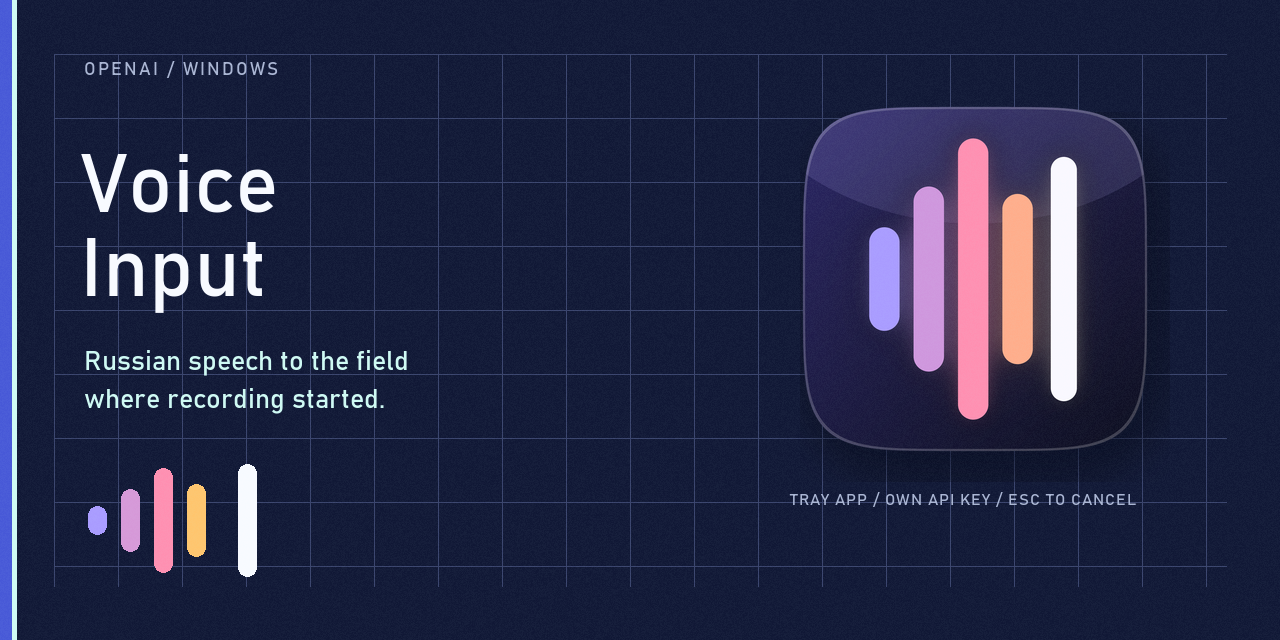
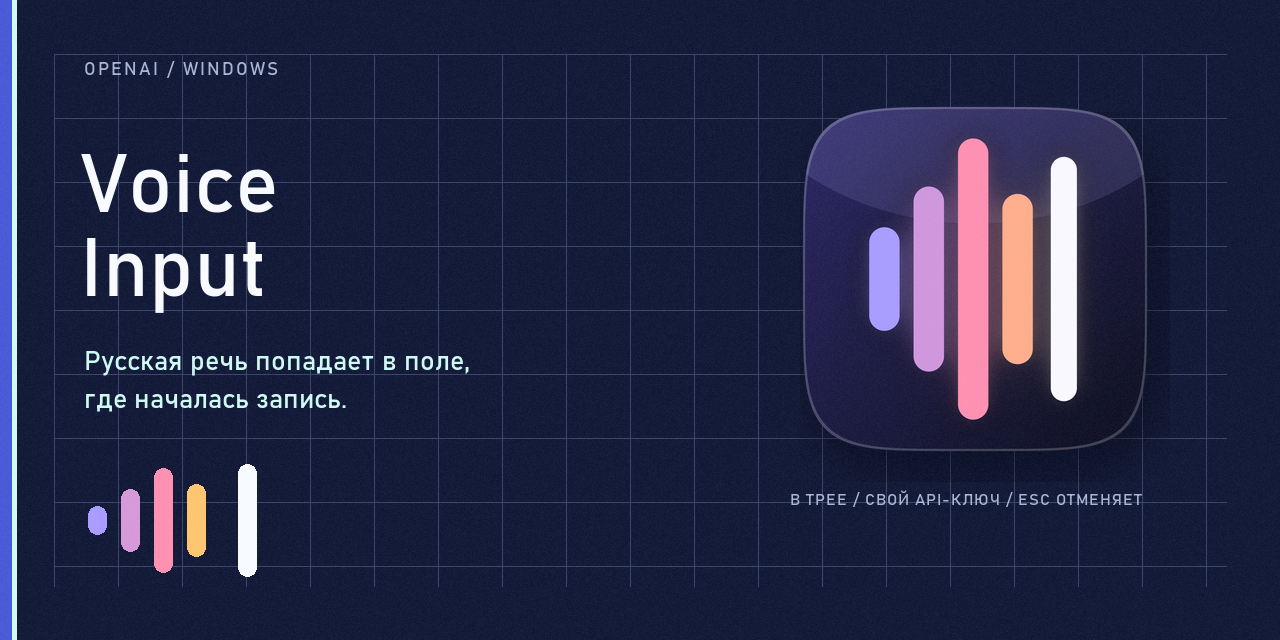
docs: add security policy, contributing guide and Russian README images
- SECURITY.md and CONTRIBUTING.md in Russian
- Russian issue form and contact links
- Dependabot for NuGet and GitHub Actions (monthly, grouped)
- banner, product and social images re-rendered with Russian captions
- README: icon doc link uses the Russian name

Changed region(s): [[0.0625, 0.5312, 0.375, 0.6562], [0.625, 0.75, 0.875, 0.8125]]

diff --git a/tools/render-github-assets.py b/tools/render-github-assets.py
@@ -78,7 +78,7 @@ WAVE_COLOURS = ["#A99BFF", "#D698D8", "#FF8FB1", "#FFC56D"]
 
 
 def waveform(draw: ImageDraw.ImageDraw, origin: tuple[int, int], heights: list[int], width: int = 18, gap: int = 15) -> None:
-    """The icon's waveform: a violet-to-amber sweep that resolves into a steady white cursor."""
+    """Волна со значка: от фиолетового к янтарному, в конце ровный белый курсор."""
     x0, cy = origin
     x = x0
     for index, h in enumerate(heights):
@@ -103,13 +103,13 @@ def render_banner() -> None:
     draw = ImageDraw.Draw(im)
     tracking(draw, (84, 42), "VOICE INPUT / WINDOWS", font(18), MUTED, 2)
     draw.text((80, 102), "Voice Input", font=font(68), fill=WHITE)
-    draw.text((84, 190), "DICTATION IN ANY TEXT FIELD.", font=font(24), fill=SIGNAL)
-    draw.text((84, 242), "Hold a hotkey, speak, and keep typing.", font=font(22), fill=MUTED)
+    draw.text((84, 190), "ДИКТОВКА В ЛЮБОЕ ТЕКСТОВОЕ ПОЛЕ.", font=font(24), fill=SIGNAL)
+    draw.text((84, 242), "Удерживайте горячую клавишу, говорите и продолжайте печатать.", font=font(22), fill=MUTED)
     waveform(draw, (90, 348), [30, 66, 108, 70])
     draw.line((1036, 62, 1036, 378), fill=GRID, width=1)
     icon_box = (1162, 70, 1432, 340)
     paste_icon(im, icon_box)
-    caption = "RECORD / TRANSCRIBE / INSERT"
+    caption = "ЗАПИСЬ / РАСПОЗНАВАНИЕ / ВСТАВКА"
     caption_face = font(15)
     caption_x = (icon_box[0] + icon_box[2] - tracking_width(draw, caption, caption_face, 2)) // 2
     tracking(draw, (caption_x, 374), caption, caption_face, MUTED, 2)
@@ -124,17 +124,17 @@ def render_social() -> None:
     tracking(draw, (84, 60), "OPENAI / WINDOWS", font(18), MUTED, 2)
     draw.text((80, 146), "Voice", font=font(82), fill=WHITE)
     draw.text((80, 230), "Input", font=font(82), fill=WHITE)
-    draw.text((84, 348), "Russian speech to the field", font=font(27), fill=SIGNAL)
-    draw.text((84, 386), "where recording started.", font=font(27), fill=SIGNAL)
+    draw.text((84, 348), "Русская речь попадает в поле,", font=font(27), fill=SIGNAL)
+    draw.text((84, 386), "где началась запись.", font=font(27), fill=SIGNAL)
     waveform(draw, (88, 520), [28, 62, 104, 72])
     paste_icon(im, (790, 94, 1160, 464))
-    tracking(draw, (790, 492), "TRAY APP / OWN API KEY / ESC TO CANCEL", font(16), MUTED, 1)
+    tracking(draw, (790, 492), "В ТРЕЕ / СВОЙ API-КЛЮЧ / ESC ОТМЕНЯЕТ", font(16), MUTED, 1)
     im = Image.alpha_composite(im, noise(size)).convert("RGB")
     im.save(OUT / "voice-input-social-preview.png", optimize=True, quality=94)
 
 
 def render_product_demo() -> None:
-    """The real 1.0 interface: overlay states on the left, the settings window on the right."""
+    """Настоящий интерфейс 1.0: слева состояния оверлея, справа окно настроек."""
     size = (1440, 800)
     im = Image.new("RGB", size, PAPER)
     draw = ImageDraw.Draw(im)
@@ -142,16 +142,16 @@ def render_product_demo() -> None:
     draw.rectangle((0, 0, size[0], 172), fill=INK)
     draw.rectangle((0, 0, 12, size[1]), fill=INDIGO)
     draw.rectangle((12, 0, 16, size[1]), fill=SIGNAL)
-    tracking(draw, (74, 38), "VOICE INPUT 1.0 / WINDOWS 10 AND 11", font(17), MUTED, 2)
-    draw.text((70, 76), "One quiet overlay. One small settings window.", font=font(46), fill=WHITE)
+    tracking(draw, (74, 38), "VOICE INPUT 1.0 / WINDOWS 10 И 11", font(17), MUTED, 2)
+    draw.text((70, 76), "Тихий оверлей и одно небольшое окно настроек.", font=font(46), fill=WHITE)
 
     product = OUT / "product"
     overlay_w, overlay_h = 400, 144
     cells = [
-        (70, 214, "01 / LISTENING", "listening.png"),
-        (500, 214, "02 / RECOGNISING", "processing.png"),
-        (70, 414, "03 / DONE", "success.png"),
-        (500, 414, "04 / PROBLEM, IN PLAIN WORDS", "error.png"),
+        (70, 214, "01 / СЛУШАЮ", "listening.png"),
+        (500, 214, "02 / РАСПОЗНАЮ", "processing.png"),
+        (70, 414, "03 / ГОТОВО", "success.png"),
+        (500, 414, "04 / ОШИБКА ПРОСТЫМИ СЛОВАМИ", "error.png"),
     ]
     for x, y, label, filename in cells:
         tracking(draw, (x, y), label, font(15), PAPER_MUTED, 2)
@@ -164,7 +164,7 @@ def render_product_demo() -> None:
     settings_h = round(settings.height * settings_w / settings.width)
     settings = settings.resize((settings_w, settings_h), Image.Resampling.LANCZOS)
     sx, sy = 1050, 214
-    tracking(draw, (sx, sy), "05 / SETTINGS", font(15), PAPER_MUTED, 2)
+    tracking(draw, (sx, sy), "05 / НАСТРОЙКИ", font(15), PAPER_MUTED, 2)
     shadow = Image.new("RGBA", size, (0, 0, 0, 0))
     ImageDraw.Draw(shadow).rounded_rectangle((sx - 8, sy + 34, sx + settings_w + 8, sy + 38 + settings_h), radius=18, fill=(18, 28, 63, 40))
     im = Image.alpha_composite(im.convert("RGBA"), shadow.filter(ImageFilter.GaussianBlur(14))).convert("RGB")
@@ -172,8 +172,10 @@ def render_product_demo() -> None:
     im.paste(settings, (sx, sy + 31))
 
     draw.line((70, 742, 1370, 742), fill=PAPER_LINE, width=2)
-    tracking(draw, (70, 760), "RECORD / TRANSCRIBE / INSERT", font(16), PAPER_INK, 2)
-    tracking(draw, (1010, 760), "RENDERED FROM THE REAL WINDOWS", font(16), PAPER_MUTED, 2)
+    tracking(draw, (70, 760), "ЗАПИСЬ / РАСПОЗНАВАНИЕ / ВСТАВКА", font(16), PAPER_INK, 2)
+    footnote = "СНЯТО С НАСТОЯЩИХ ОКОН"
+    footnote_x = 1370 - tracking_width(draw, footnote, font(16), 2)
+    tracking(draw, (footnote_x, 760), footnote, font(16), PAPER_MUTED, 2)
     im.save(OUT / "voice-input-product.png", optimize=True, quality=94)
 
 
@@ -181,4 +183,4 @@ if __name__ == "__main__":
     render_banner()
     render_social()
     render_product_demo()
-    print("Rendered Voice Input GitHub assets")
+    print("Изображения Voice Input для GitHub отрисованы")

diff --git a/SECURITY.md b/SECURITY.md
@@ -1,0 +1,20 @@
+# Политика безопасности
+
+## Поддерживаемый релиз
+
+Исправления безопасности вносятся в текущую линию релизов `1.0.x` и в `main`. Версии 0.x не поддерживаются.
+
+## Как сообщить
+
+Используйте **приватное сообщение об уязвимости** GitHub: вкладка «Security» репозитория, кнопка «Report a vulnerability». Если этот канал недоступен, напишите на `ai@logachev.net`.
+
+Не прикладывайте API-ключ OpenAI, записи голоса и текст диктовок. Не создавайте публичные issue с ключами и подробностями рабочих эксплойтов.
+
+## Границы безопасности
+
+- Звук уходит только в OpenAI и только в момент диктовки; на диск запись не сохраняется.
+- API-ключ хранится в `%LOCALAPPDATA%\VoiceInput\secrets`, зашифрован через Windows DPAPI для учётной записи пользователя и передаётся только как заголовок авторизации запроса к OpenAI.
+- История расшифровок не ведётся, телеметрии нет.
+- Диагностический файл включается только переменной `VOICE_INPUT_DIAGNOSTIC_LOG` и не содержит ни звука, ни текста.
+- Установщик не требует прав администратора и пока не подписан сертификатом: сверяйте SHA-256 файла со значением на странице релиза.
+- Приложение вставляет текст в активное окно от имени обычного пользователя и не работает с окнами, запущенными от администратора.

diff --git a/CONTRIBUTING.md b/CONTRIBUTING.md
@@ -1,0 +1,27 @@
+# Как участвовать
+
+Voice Input: небольшое самостоятельное приложение. Репозиторий принимает точечные сообщения об ошибках и воспроизводимые исправления.
+
+## Прежде чем открывать issue
+
+- Уберите из скриншотов и журналов API-ключ и текст диктовок.
+- Укажите версию Windows, версию Voice Input (видна в окне настроек), микрофон и приложение, в которое шла вставка.
+- Опишите точные шаги: что нажали, что сказали, что появилось в оверлее и в поле ввода.
+- Если текст не вставился, напишите, запущено ли целевое приложение от администратора.
+
+## Локальная проверка
+
+Нужны Windows 10/11 x64 и .NET 10 SDK.
+
+```bash
+dotnet build VoiceInput.sln -c Release
+dotnet test VoiceInput.sln -c Release --no-build
+```
+
+Настоящие окна можно отрисовать в PNG без записи речи:
+
+```bash
+dotnet run --project tests/VoiceInput.UiPreview -c Release -- preview
+```
+
+Делайте изменения узкими и добавляйте регрессионный тест, когда меняется поведение. О проблемах безопасности сообщайте закрыто, как описано в [SECURITY.md](SECURITY.md).

diff --git a/README.md b/README.md
@@ -104,7 +104,8 @@ dotnet run --project tests/VoiceInput.UiPreview -c Release -- preview
 
 - [Что нового](CHANGELOG.md)
 - [Архитектура](docs/ARCHITECTURE.md)
-- [Принципы знака Quiet Pulse](docs/ICON_DESIGN.md)
+- [Принципы знака «Тихий пульс»](docs/ICON_DESIGN.md)
+- [Как участвовать](CONTRIBUTING.md) и [политика безопасности](SECURITY.md)
 - [Исследование локальных ASR-моделей](docs/MODEL_RESEARCH.md) (история: 0.x-версии работали офлайн)
 
 ## Лицензия
